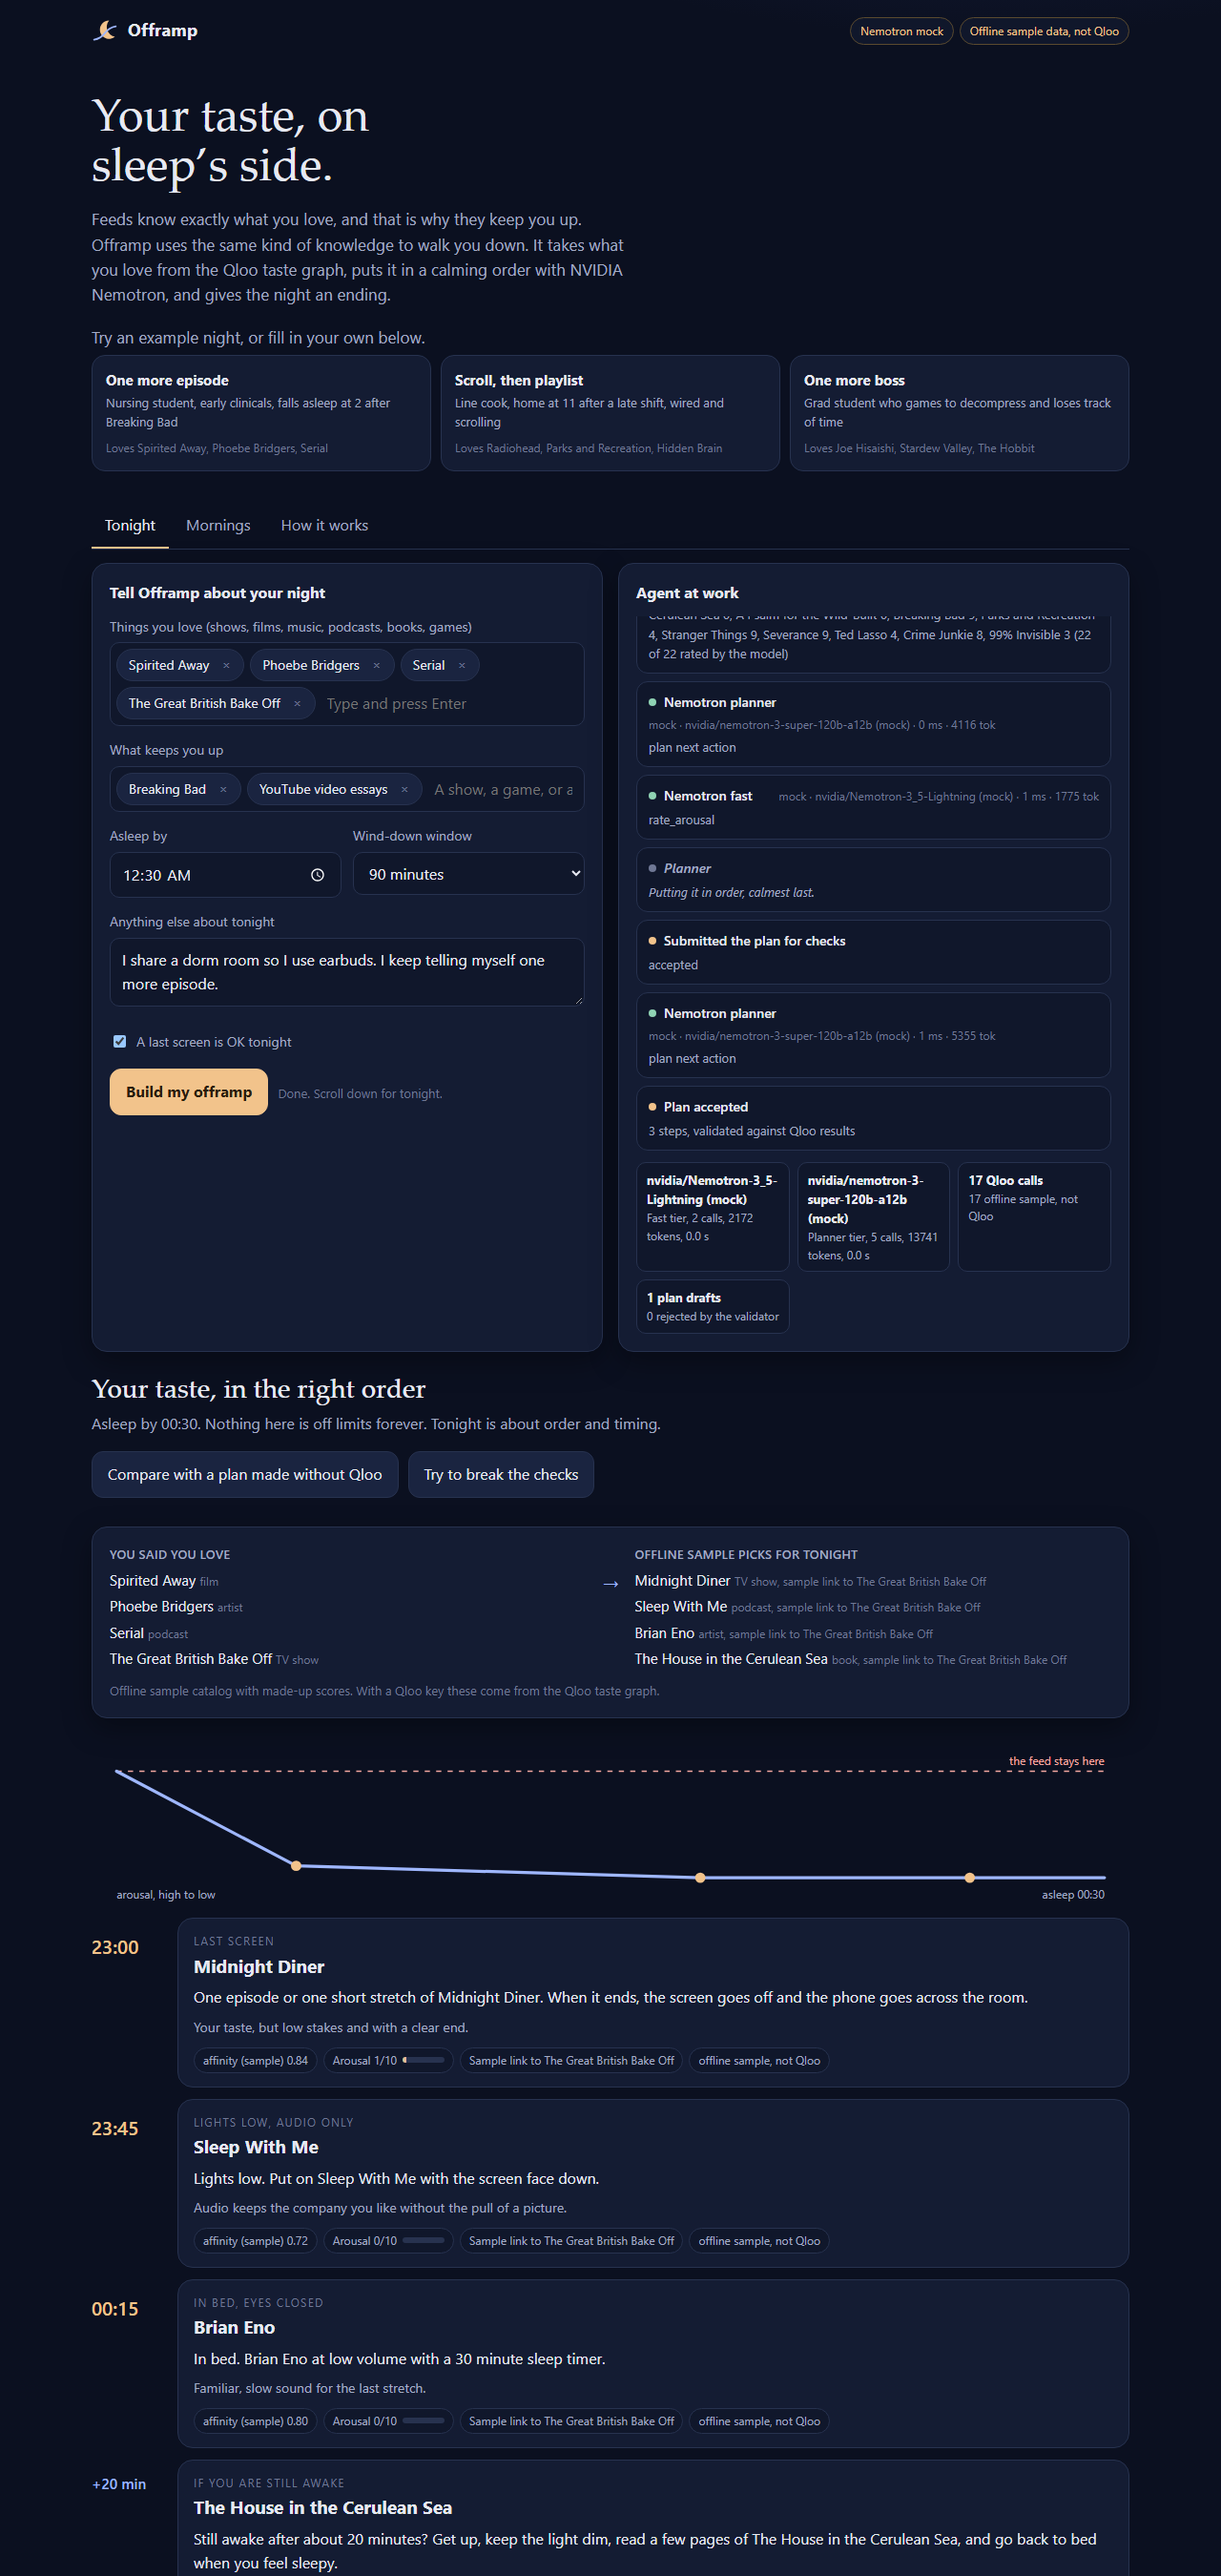
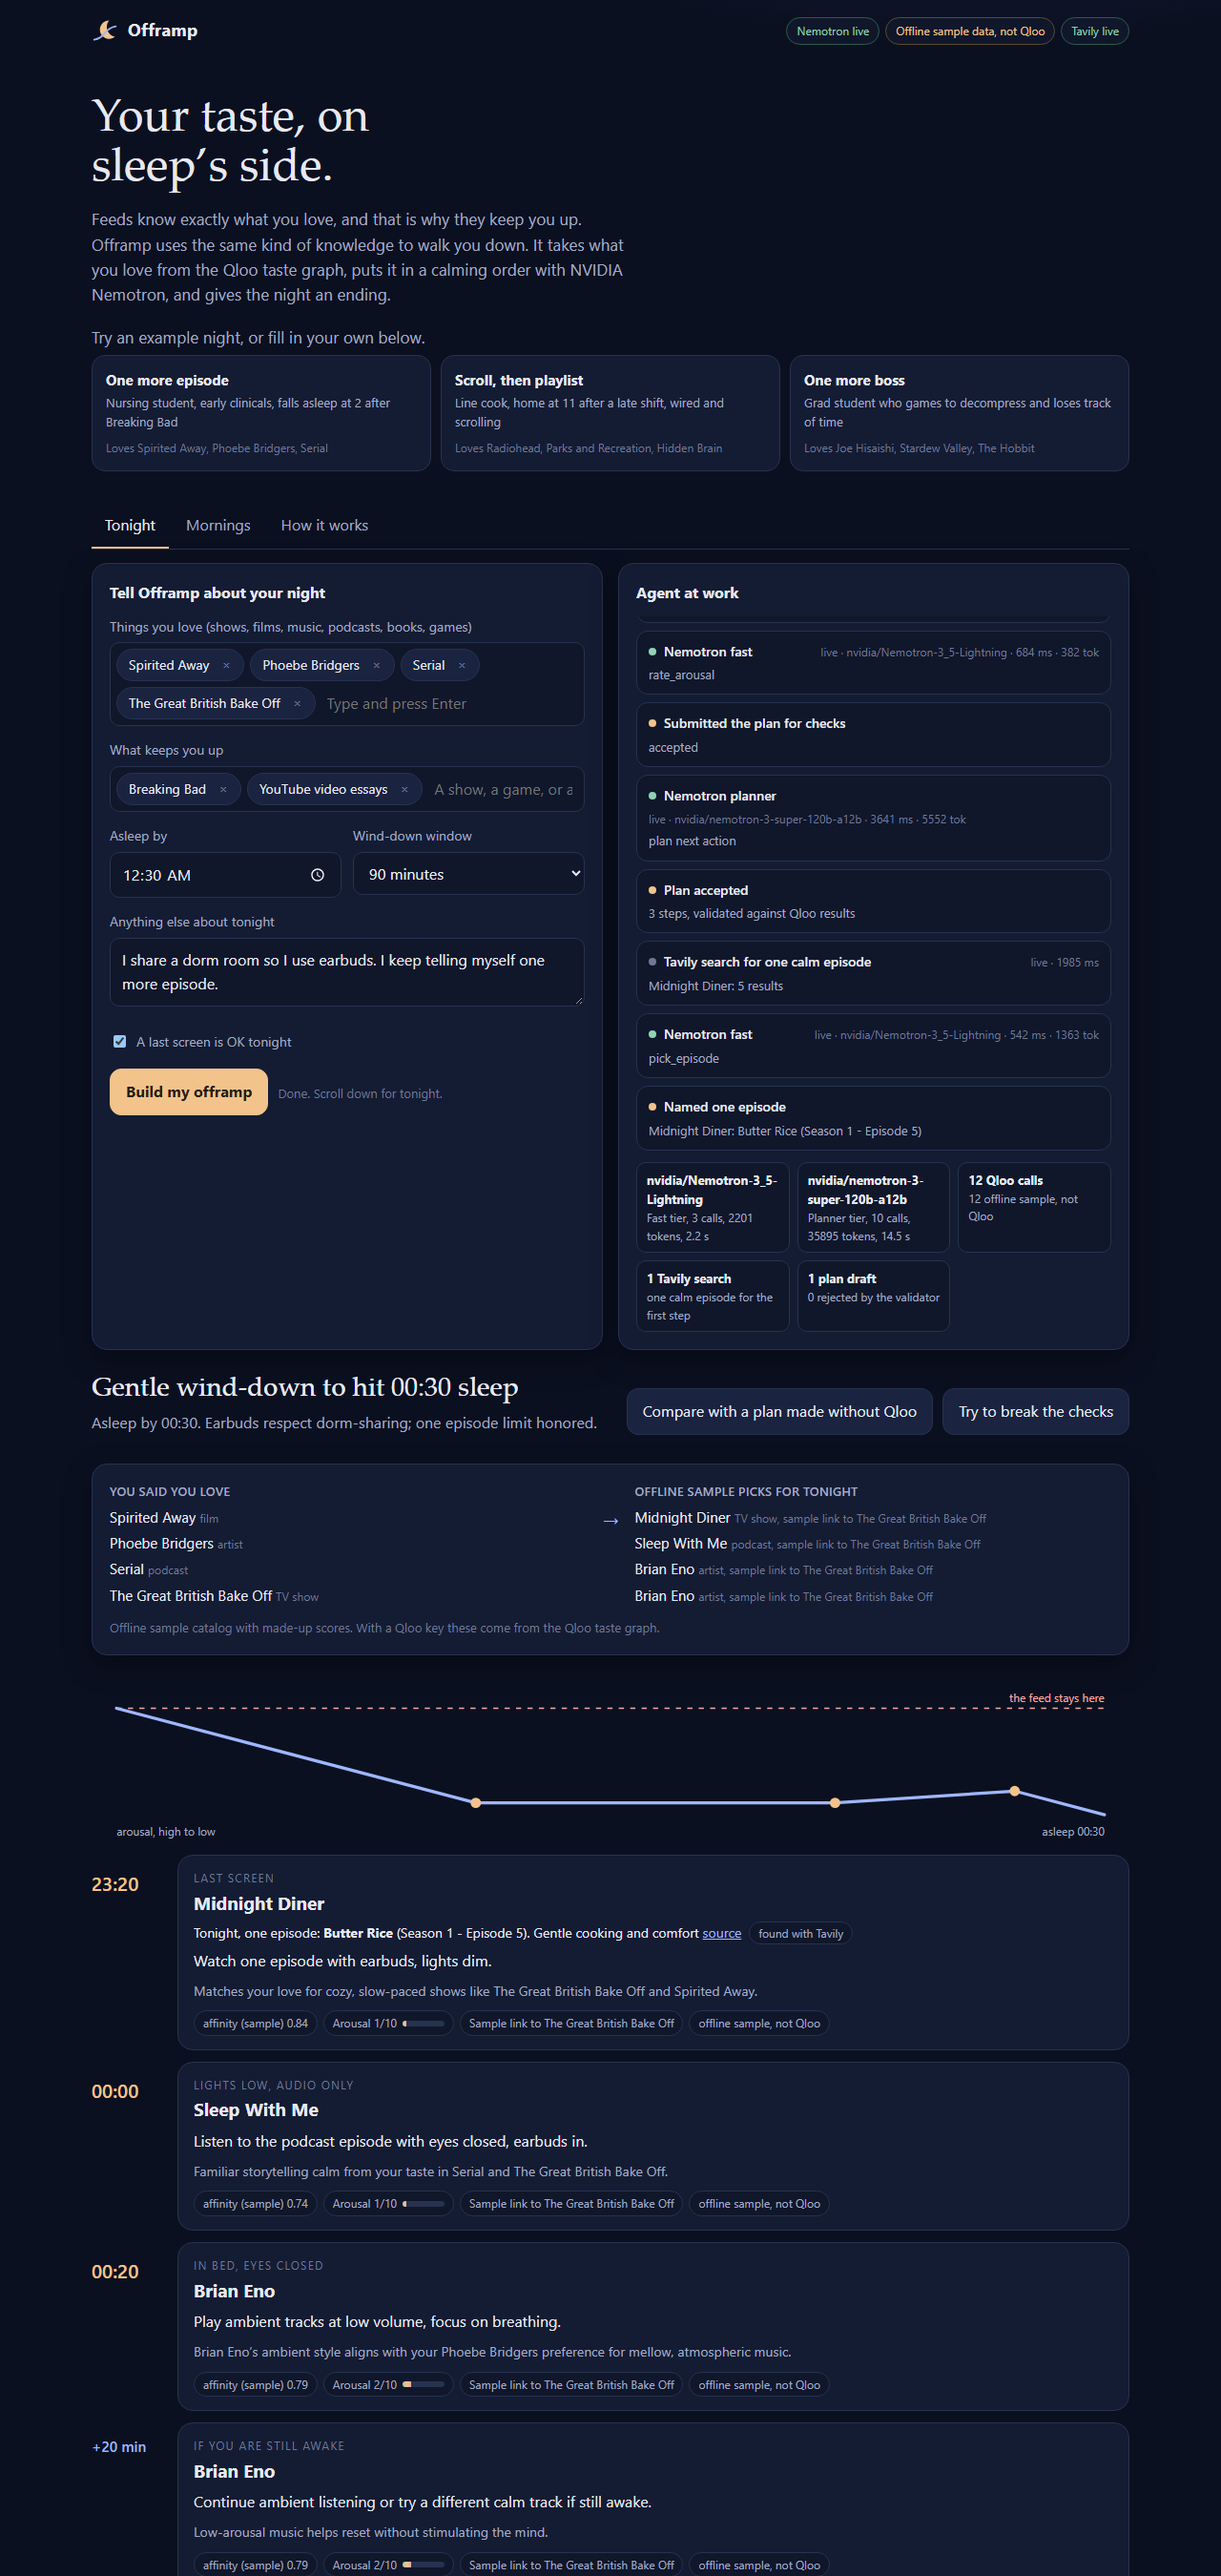
Deploy to Vercel: live demo URL, measured bench tables, live screenshot

diff --git a/README.md b/README.md
@@ -4,13 +4,35 @@
 
 Feeds know exactly what you love, and that is why they keep you up. Offramp uses the same kind of knowledge to walk you down. It takes what you love from the Qloo taste graph, puts it in a calming order with NVIDIA Nemotron models on Nebius Token Factory, and gives the night an ending.
 
-Live demo [DEMO_URL] . Video [VIDEO_URL] . Built for the Qloo Agentic Hackathon and the Nebius x NVIDIA Global AI Hackathon (Best Apps and Agents track).
+Live demo https://offramp-green.vercel.app . Video [VIDEO_URL] . Built for the Qloo Agentic Hackathon and the Nebius x NVIDIA Global AI Hackathon (Best Apps and Agents track).
 
 ![Offramp tonight view](docs/screenshot.png)
 
-*Screenshot from offline mode (mock model, offline sample catalog). The badges in the top right say which mode is running. Replace it with a live run using `npm run shot`.*
+## Measured
 
-<!-- MEASURED. Paste the two tables printed by `npm run bench` (live keys) here, under a heading "Measured on live Token Factory and Qloo". Use only numbers the script printed. If you did not run it, leave this comment as it is. -->
+Measured 2026-10-29 (22:38 UTC) with `npm run bench -- --agreement`, 30 runs (3 example nights × 10). Nemotron live, Qloo sample data (no Qloo key yet), Tavily live.
+
+| Measure | Value |
+| --- | --- |
+| Plans produced | 30 |
+| First draft accepted by the validator | 87% |
+| Drafts the validator sent back | 4 |
+| Made-up titles or ids caught | 4 |
+| Plans finished by the safety net | 0% |
+| Planner turns with native tool calls | 100% |
+| Planner turns on the JSON tool protocol | 0% |
+| Arousal ratings made by the model | 78% |
+| Calls cut off at max_tokens | 0 |
+| Tool calls deferred to stay in the time limit | 0 |
+| Median seconds per plan | 26.6 |
+| Cost per plan, USD | 0.01376 |
+
+| Tier | Model | Calls per plan | Median ms per call | Tokens per plan | Reasoning tokens per plan |
+| --- | --- | --- | --- | --- | --- |
+| fast | nvidia/Nemotron-3_5-Lightning | 3 | 863 | 2261 | 23 |
+| planner | nvidia/nemotron-3-super-120b-a12b | 10.6 | 1679 | 38162 | 2392 |
+
+Arousal agreement on 11 candidates, fast vs deep. Mean difference 0.64 points, within 1 point 100%, Spearman 0.97. Fast took 3.7 s, deep took 11.2 s.
 
 ## The problem
 
